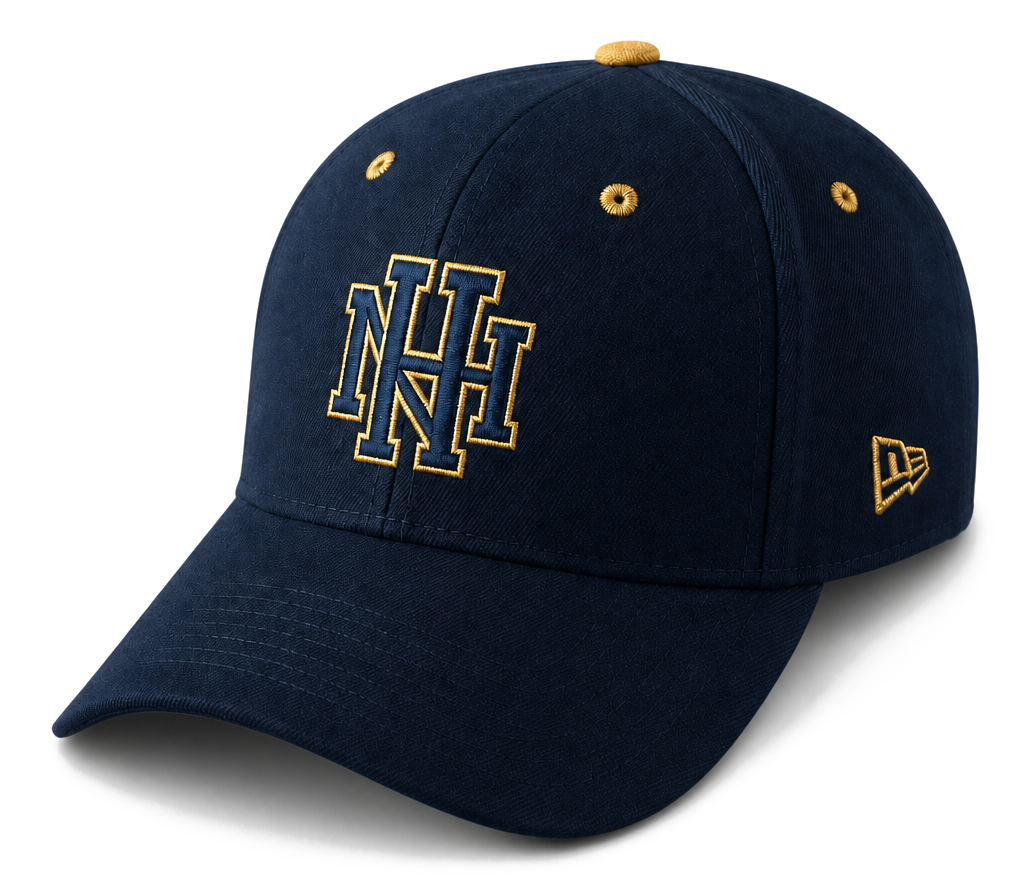
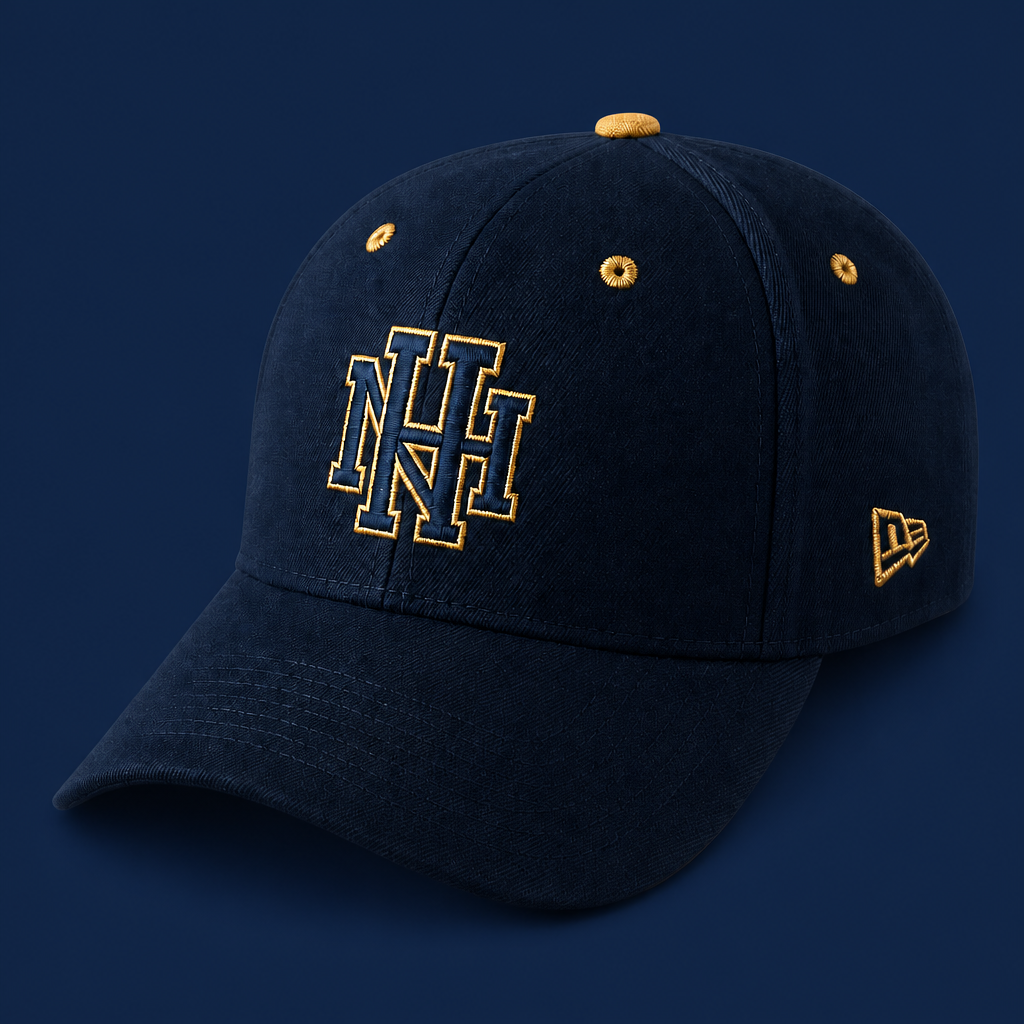
Use custom cap/jersey shots; show kit figures edge-to-edge on navy
Swap in the user-composed product images (pre-set on brand navy) and display
them full-bleed as squares instead of on the ice spotlight.

diff --git a/styles.css b/styles.css
@@ -443,24 +443,17 @@ ul { margin: 0; padding: 0; list-style: none; }
 }
 .kit-card:hover { transform: translateY(-4px); border-color: var(--line-gold); }
 .kit-figure {
-  /* Isolated products float on a soft ice spotlight, no hard box */
-  background:
-    radial-gradient(ellipse 68% 62% at 50% 44%,
-      rgba(178, 213, 228, 0.30) 0%,
-      rgba(178, 213, 228, 0.12) 42%,
-      rgba(178, 213, 228, 0) 72%);
+  /* Product shots are pre-composed on brand navy; show them edge to edge */
+  background: var(--navy);
   border-bottom: 1px solid var(--line);
-  display: flex;
-  align-items: center;
-  justify-content: center;
-  aspect-ratio: 4 / 3;
-  padding: clamp(1.25rem, 3vw, 2.25rem);
+  aspect-ratio: 1 / 1;
+  overflow: hidden;
 }
 .kit-figure img {
-  width: auto;
-  max-width: 100%;
+  width: 100%;
   height: 100%;
-  object-fit: contain;
+  object-fit: cover;
+  display: block;
 }
 .kit-body { padding: clamp(1.4rem, 2.5vw, 2rem); }
 .kit-body .card-title { margin-bottom: 0.6rem; }